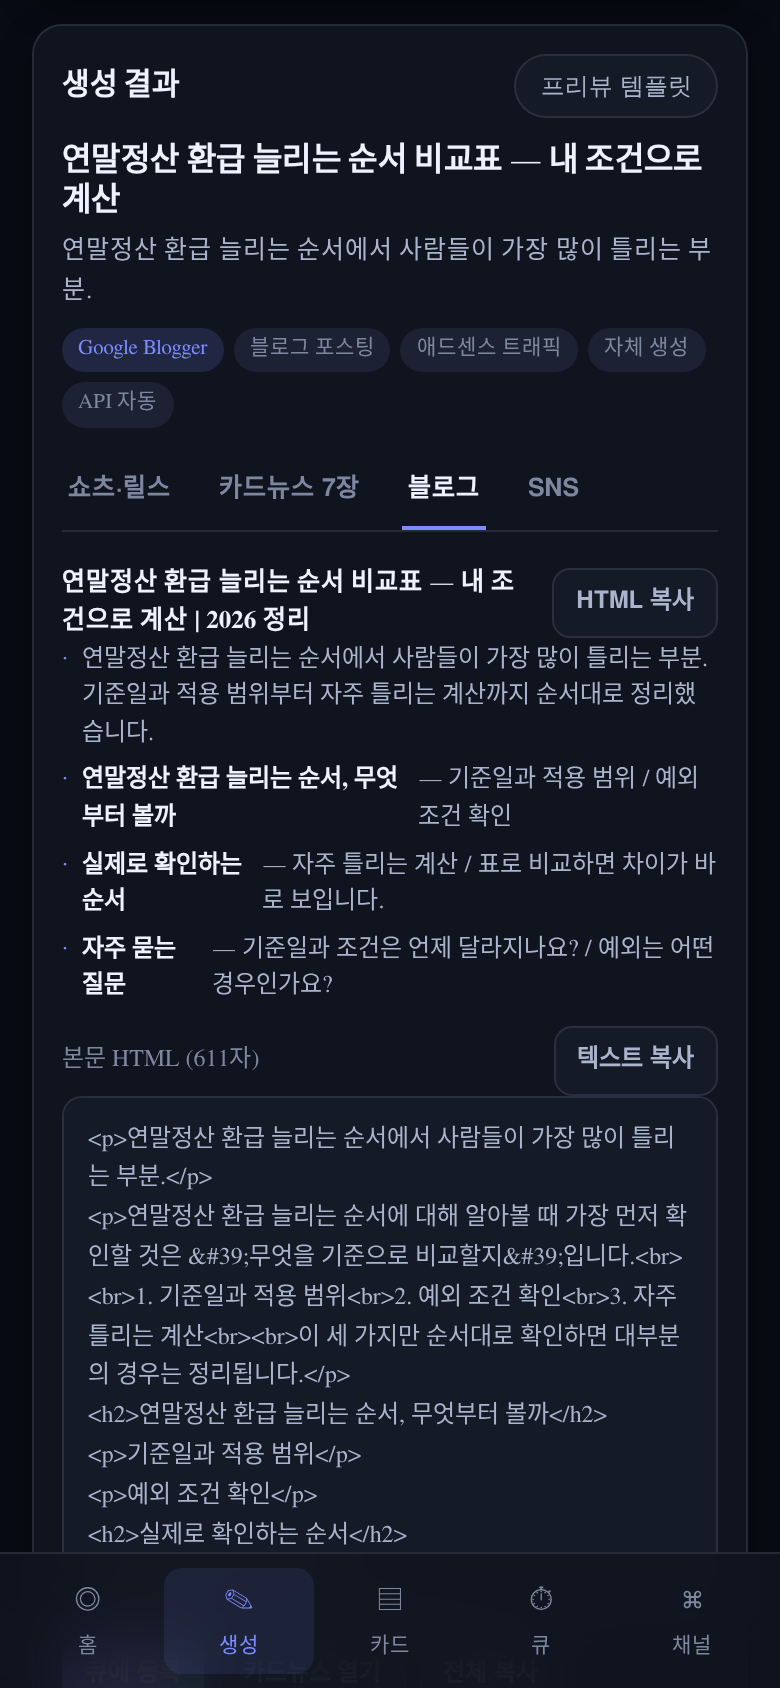
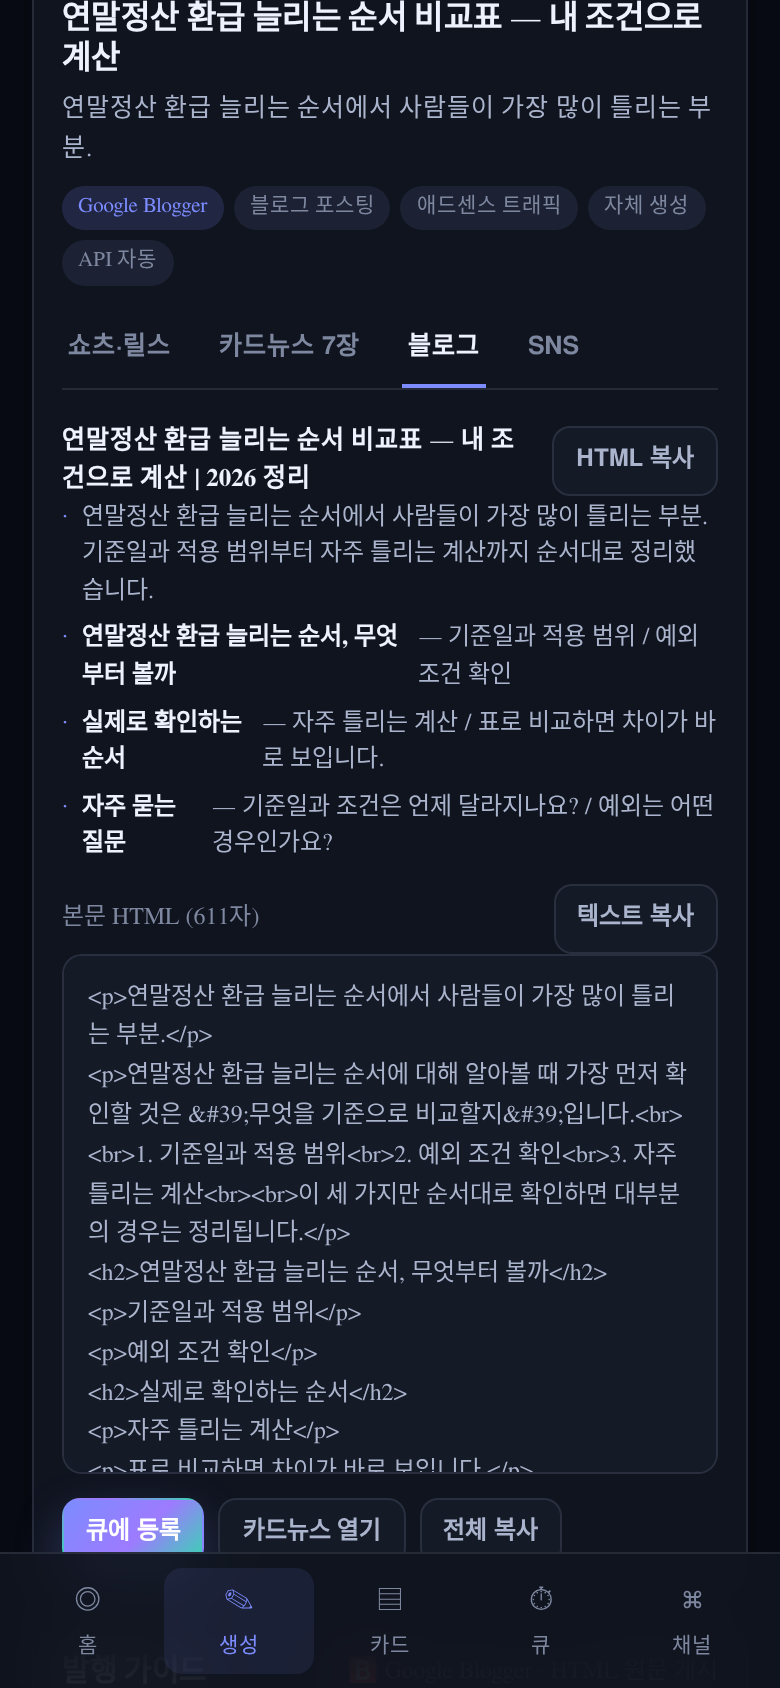
fix(api): Gemini 2.5 Flash thinking 비활성화·출력 4096 토큰으로 JSON 잘림 방지

diff --git a/functions/api/generate.js b/functions/api/generate.js
@@ -21,7 +21,7 @@ function extractText(provider, data) {
   return data?.choices?.[0]?.message?.content || '';
 }
 
-async function callProvider(provider, apiKey, prompt, maxTokens = 2048) {
+async function callProvider(provider, apiKey, prompt, maxTokens = 4096) {
   const cfg = MODELS[provider];
   const headers = { 'content-type': 'application/json' };
   let body;
@@ -29,7 +29,13 @@ async function callProvider(provider, apiKey, prompt, maxTokens = 2048) {
   if (provider === 'gemini') {
     body = {
       contents: [{ role: 'user', parts: [{ text: prompt }] }],
-      generationConfig: { temperature: 0.85, maxOutputTokens: maxTokens, responseMimeType: 'application/json' },
+      generationConfig: {
+        temperature: 0.85,
+        maxOutputTokens: maxTokens,
+        responseMimeType: 'application/json',
+        // 2.5 Flash는 thinking이 기본 ON이라 응답이 잘리고 느려집니다. JSON 생성에는 끕니다.
+        thinkingConfig: { thinkingBudget: 0 },
+      },
     };
   } else if (provider === 'openrouter') {
     headers.authorization = `Bearer ${apiKey}`;
